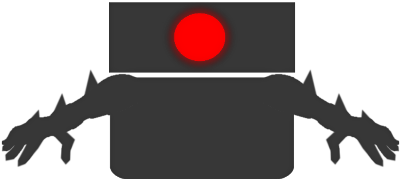
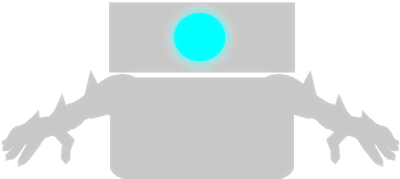
Achievements styling

diff --git a/app/components/Users/Achievement.jsx b/app/components/Users/Achievement.jsx
@@ -11,18 +11,18 @@ const pictures = {
 const Achievement = ({t, id}) => {
   const {title, description} = t(id, {returnObjects: true})
   return (
-    <div className="card has-text-centered" style={{borderRadius: 25}}>
-      <div className="card-image" style={{padding: '20px 10px'}}>
-        <figure>
-          <img style={{maxHeight: 125}} src={pictures[id] ? `/assets/img/achievements/${pictures[id]}` : "/assets/img/logo.png"}/>
-        </figure>
-      </div>
-      <div className="card-content">
-        <div className="content">
-          <h3 className="title is-3" style={{fontWeight: 'bold'}}>
-            {title}
-          </h3>
-          <p>{description}</p>
+    <div className="achievement">
+      <div className="card has-text-centered">
+        <div className="card-image">
+          <figure>
+            <img src={pictures[id] ? `/assets/img/achievements/${pictures[id]}` : "/assets/img/logo.png"}/>
+          </figure>
+        </div>
+        <div className="card-content">
+          <div className="content">
+            <h3 className="title is-3">{title}</h3>
+            <p>{description}</p>
+          </div>
         </div>
       </div>
     </div>

diff --git a/app/styles/_components/User/achievements.sass b/app/styles/_components/User/achievements.sass
@@ -1,0 +1,38 @@
+.achievements
+  .achievement
+    border: 1px solid $grey-light
+    padding: 10px
+    border-radius: 20px
+    background: $grey-lighter
+    max-width: 350px
+    margin: 0 auto
+    cursor: default
+    +tablet
+      transition: transform 0.3s, box-shadow 0.2s
+      transform: scale(0.9)
+      &:hover
+        transform: scale(1.10)
+        box-shadow: 0px 3px 15px $grey-light
+        .card .content .title
+          text-shadow: 0px 0px 20px $logo-main
+    .card
+      border: 1px solid $grey-light
+      border-radius: 25px
+      background: $grey-dark
+      .card-image
+        padding: 20px 10px
+        border-bottom: 1px solid $grey
+        img
+          max-height: 125px
+
+      .content
+        .title
+          font-weight: bold
+          font-size: 2em
+          text-shadow: 0px 0px 5px $logo-main
+          transition: text-shadow 0.3s
+          color: white
+          border-bottom: 1px solid $grey
+          padding-bottom: 20px
+        p
+          color: whitesmoke

diff --git a/app/components/Users/UserProfile.jsx b/app/components/Users/UserProfile.jsx
@@ -20,8 +20,8 @@ const UserProfile = ({user: {achievements}, t}) => (
       <h2 className="title is-2 is-centered has-text-centered">
         <Icon size="large" name="trophy"/> {t('title')}
       </h2>
-      <div className="columns is-marginless is-multiline is-centered" style={{padding: 20}}>
-        {achievements.map(id => (
+      <div className="columns is-marginless is-multiline is-centered achievements">
+        {[1,2,6,5].map(id => (
           <div key={id} className="column is-3" style={{flexBasis: 300}}>
             <Achievement id={id}/>
           </div>

diff --git a/app/styles/application.sass b/app/styles/application.sass
@@ -45,6 +45,7 @@
 @import "_global/spinner"
 @import "_components/App/logo"
 @import "_components/App/sidebar"
+@import "_components/User/achievements"
 @import "_components/User/authenticate"
 @import "_components/User/picture"
 @import "_components/User/user_page"

diff --git a/app/styles/_global/variables.sass b/app/styles/_global/variables.sass
@@ -20,6 +20,8 @@ $secondary-lighter: #FFD292
 //$secondary-neutral: #b57c4a
 //$secondary-desaturated: #c67b39
 
+$logo-main: #86d7ff
+
 $info: $blue !default
 $success: $green
 $warning: $yellow !default
